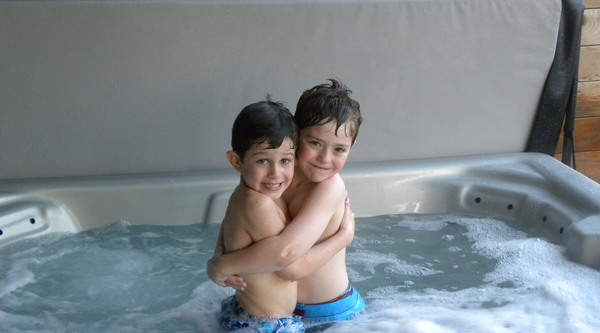
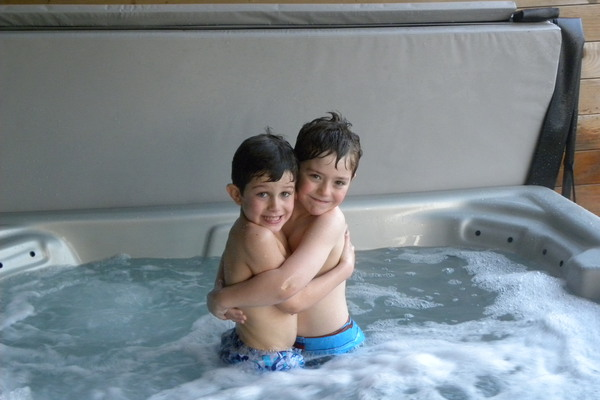
Added img_after field to sample model views and form.

diff --git a/app/models/sample.rb b/app/models/sample.rb
@@ -1,9 +1,9 @@
 class Sample < ActiveRecord::Base
 	belongs_to :user
 
-	has_attached_file :img_before, styles: { carousel: "750x500#", large: "600x333#", medium: "300x200", small: "100x100#" }
+	has_attached_file :img_before, styles: { carousel: "750x500#", large: "600x400#", medium: "300x200", small: "100x100#" }
   validates_attachment_content_type :img_before, content_type: /\Aimage\/.*\Z/
 
-  # has_attached_file :img_after, styles: { carousel: "750x500#", large: "500x333#", medium: "300x200#", small: "100x100#" }, default_url: "/images/:style/img_placeholder.png"
-  # validates_attachment_content_type :img_after, content_type: /\Aimage\/.*\Z/
+  has_attached_file :img_after, styles: { carousel: "750x500#", large: "600x400#", medium: "300x200#", small: "100x100#" }
+  validates_attachment_content_type :img_after, content_type: /\Aimage\/.*\Z/
 end

diff --git a/db/schema.rb b/db/schema.rb
@@ -11,7 +11,7 @@
 #
 # It's strongly recommended that you check this file into your version control system.
 
-ActiveRecord::Schema.define(version: 20170327195342) do
+ActiveRecord::Schema.define(version: 20170328000518) do
 
   create_table "contacts", force: :cascade do |t|
     t.string   "name"
@@ -51,6 +51,10 @@ ActiveRecord::Schema.define(version: 20170327195342) do
     t.string   "img_before_content_type"
     t.integer  "img_before_file_size"
     t.datetime "img_before_updated_at"
+    t.string   "img_after_file_name"
+    t.string   "img_after_content_type"
+    t.integer  "img_after_file_size"
+    t.datetime "img_after_updated_at"
   end
 
   create_table "users", force: :cascade do |t|

diff --git a/app/controllers/samples_controller.rb b/app/controllers/samples_controller.rb
@@ -69,6 +69,6 @@ class SamplesController < ApplicationController
 
     # Never trust parameters from the scary internet, only allow the white list through.
     def sample_params
-      params.require(:sample).permit(:user_id, :category, :title, :img_before, :description, :marquee)
+      params.require(:sample).permit(:user_id, :category, :title, :img_before, :img_after, :description, :marquee)
     end
 end

diff --git a/db/migrate/20170328000518_add_attachment_img_after_to_samples.rb b/db/migrate/20170328000518_add_attachment_img_after_to_samples.rb
@@ -1,0 +1,11 @@
+class AddAttachmentImgAfterToSamples < ActiveRecord::Migration
+  def self.up
+    change_table :samples do |t|
+      t.attachment :img_after
+    end
+  end
+
+  def self.down
+    remove_attachment :samples, :img_after
+  end
+end
